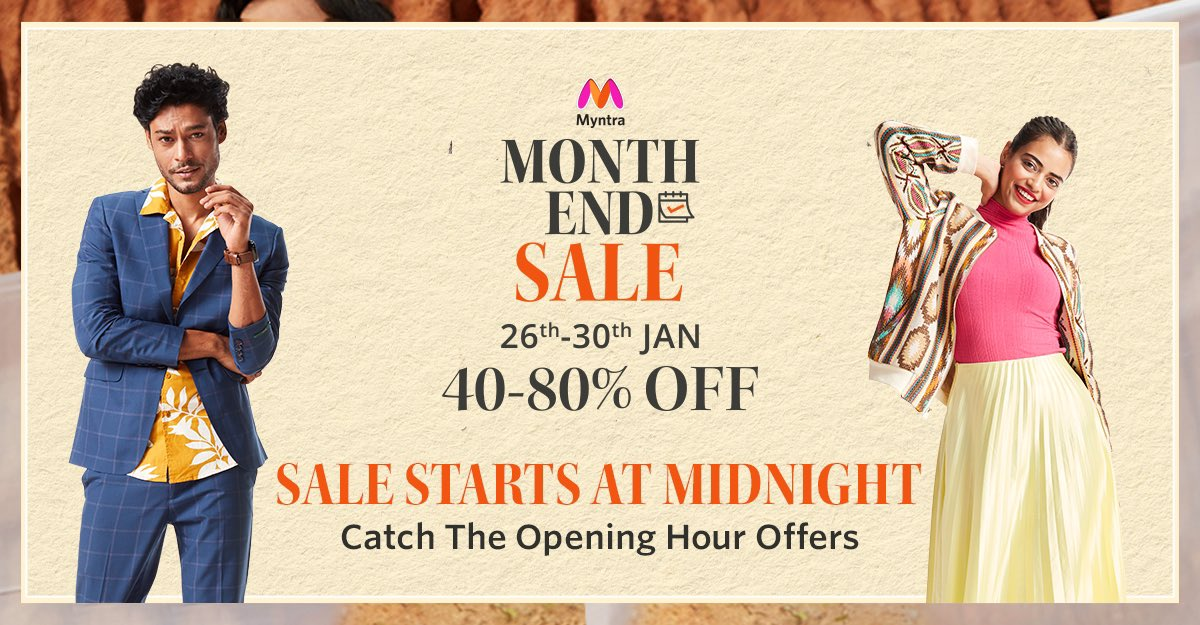
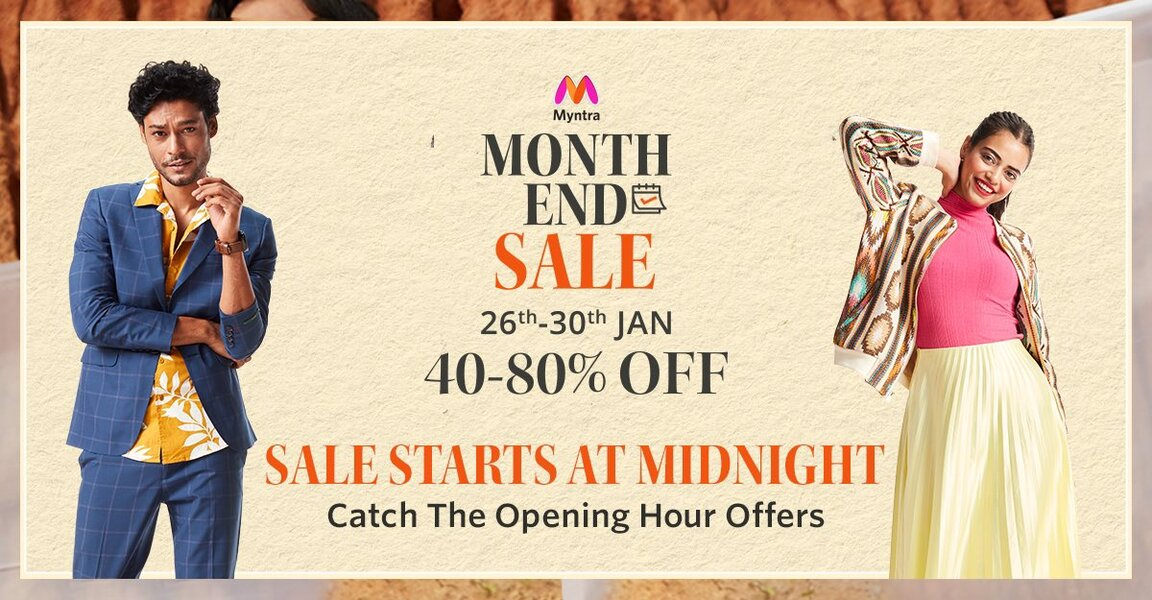
Fixed slider

diff --git a/index.html b/index.html
@@ -49,14 +49,14 @@
             <li data-target="#devCarousel" data-slide-to="2"></li>
         </ol>
         <div class="carousel-inner">
-            <div class="item active img">
-                <img src="image/banner4.jpg" alt="one" />
+            <div class="item active">
+                <img src="image/banner4.jpg" alt="one" class="modified"  />
             </div>
-            <div class="item img">
-                <img src="image/banner1.jpg" alt="one" />
+            <div class="item">
+                <img src="image/banner1.jpg" alt="one" class="modified" />
             </div>
-            <div class="item img">
-                <img src="image/banner2.jpg" alt="one" />
+            <div class="item">
+                <img src="image/banner2.jpg" alt="one" class="modified"/>
             </div>  
         </div>
 

diff --git a/style.css b/style.css
@@ -92,7 +92,7 @@ background-color: rgb(240, 142, 147);
 }
 
 .slider{
-    height: 530px;
+    height: 700px;
     /*border: 2px solid rgb(194, 247, 59); */
     
 }
@@ -101,23 +101,17 @@ background-color: rgb(240, 142, 147);
     box-shadow: 10px 20px 10px gray;
 }
 
-.slider img{
-    height:530px;
-    width:100%;
-    
-}
-
 .item{
-    height:600px;
+    height:700px;
     
 }
 
-.item img{            /* DOUBT: image not fitting to screen*/
-    height:600px;
+.modified{            /* DOUBT: image not fitting to screen*/
+    height:700px !important;
     width:100%;
 }
 
-.toppicks{                 /*More tiles not coming beside*/
+.toppicks{               
     height:400px;
     /*border:2px solid black;*/
     margin-top:1%;
